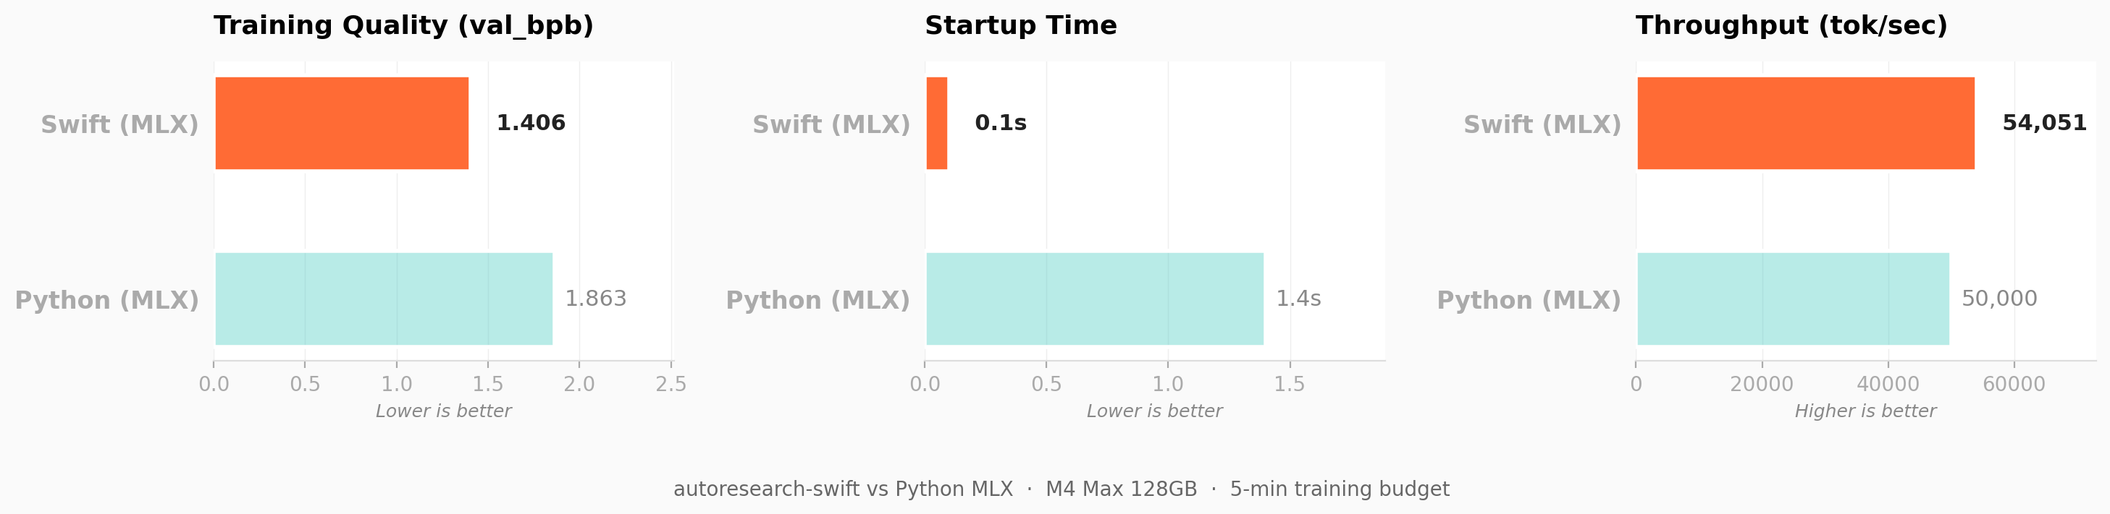
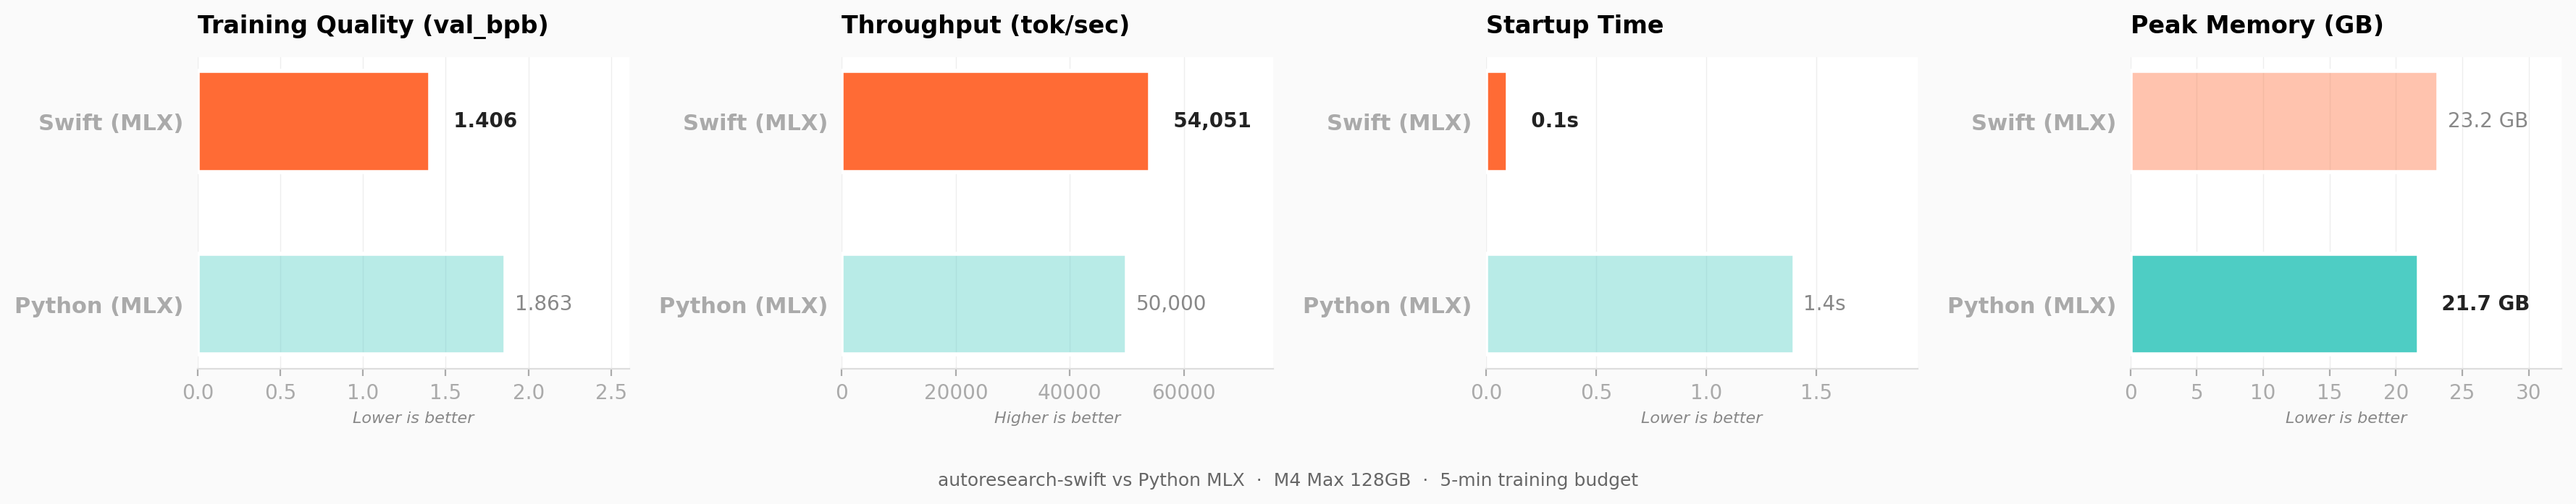
docs: final benchmark with 4-panel chart (val_bpb, tok/sec, startup, memory)
Final results on M4 Max 128GB, same config, 5-min budget:
- val_bpb: 1.406 vs 1.863 (-24.5%)
- tok/sec: 54,051 vs ~50,000 (+8.1%)
- startup: 0.1s vs 1.4s (14x faster)
- memory: 23.2 GB vs 21.7 GB (+7%)

Swift wins 3 of 4 metrics. Memory is slightly higher due to
Muon optimizer state buffers.

diff --git a/scripts/benchmark_chart.py b/scripts/benchmark_chart.py
@@ -1,18 +1,12 @@
 #!/usr/bin/env python3
 """
 Generate benchmark comparison chart for autoresearch-swift README.
-
-Hardcoded data from actual benchmark runs on M4 Max 128GB.
-Matches the metrics highlighted in the README table.
-
-Usage:
-    python3 scripts/benchmark_chart.py
+4-panel: val_bpb, tok/sec, startup, memory.
 """
 
 import matplotlib
 matplotlib.use("Agg")
 import matplotlib.pyplot as plt
-import numpy as np
 
 
 def make_chart(output_path="benchmark_chart.png"):
@@ -25,7 +19,14 @@ def make_chart(output_path="benchmark_chart.png"):
             "subtitle": "Lower is better",
             "values": [1.406, 1.863],
             "fmt": ".3f",
-            "invert": True,  # lower is better → highlight the lower bar
+            "invert": True,
+        },
+        {
+            "title": "Throughput (tok/sec)",
+            "subtitle": "Higher is better",
+            "values": [54051, 50000],
+            "fmt": ",.0f",
+            "invert": False,
         },
         {
             "title": "Startup Time",
@@ -36,53 +37,47 @@ def make_chart(output_path="benchmark_chart.png"):
             "invert": True,
         },
         {
-            "title": "Throughput (tok/sec)",
-            "subtitle": "Higher is better",
-            "values": [54051, 50000],
-            "fmt": ",.0f",
-            "invert": False,
+            "title": "Peak Memory (GB)",
+            "subtitle": "Lower is better",
+            "values": [23.2, 21.7],
+            "fmt": ".1f",
+            "suffix": " GB",
+            "invert": True,
         },
     ]
 
-    fig, axes = plt.subplots(1, 3, figsize=(15, 4))
+    fig, axes = plt.subplots(1, 4, figsize=(18, 3.8))
     fig.patch.set_facecolor("#FAFAFA")
 
     for ax, m in zip(axes, metrics):
         values = m["values"]
         winner_idx = values.index(min(values)) if m.get("invert") else values.index(max(values))
 
-        # Muted colors for loser, full color for winner
         bar_colors = []
         for i, c in enumerate(colors):
-            if i == winner_idx:
-                bar_colors.append(c)
-            else:
-                bar_colors.append(c + "66")  # 40% opacity via hex alpha
+            bar_colors.append(c if i == winner_idx else c + "66")
 
         bars = ax.barh(
             range(len(values)), values,
             color=bar_colors, height=0.55,
-            edgecolor="white", linewidth=2,
-            zorder=3,
+            edgecolor="white", linewidth=2, zorder=3,
         )
 
         ax.set_yticks(range(len(labels)))
-        ax.set_yticklabels(labels, fontsize=12, fontweight="600")
-        ax.set_title(m["title"], fontsize=13, fontweight="bold", pad=14, loc="left")
-        ax.set_xlabel(m["subtitle"], fontsize=9, color="#888", style="italic")
+        ax.set_yticklabels(labels, fontsize=11, fontweight="600")
+        ax.set_title(m["title"], fontsize=12, fontweight="bold", pad=12, loc="left")
+        ax.set_xlabel(m["subtitle"], fontsize=8, color="#888", style="italic")
         ax.invert_yaxis()
 
-        # Value labels
         max_val = max(values)
         for i, (bar, val) in enumerate(zip(bars, values)):
             suffix = m.get("suffix", "")
             text = f"{val:{m['fmt']}}{suffix}"
-            if i == winner_idx:
-                text = f"  {text}"  # slight padding
             ax.text(
                 bar.get_width() + max_val * 0.03,
                 bar.get_y() + bar.get_height() / 2,
-                text, va="center", fontsize=11,
+                f"  {text}" if i == winner_idx else text,
+                va="center", fontsize=10,
                 fontweight="bold" if i == winner_idx else "normal",
                 color="#222" if i == winner_idx else "#888",
             )
@@ -92,15 +87,15 @@ def make_chart(output_path="benchmark_chart.png"):
         ax.spines["left"].set_visible(False)
         ax.spines["bottom"].set_color("#DDD")
         ax.tick_params(left=False, bottom=True, colors="#AAA")
-        ax.set_xlim(0, max_val * 1.35)
+        ax.set_xlim(0, max_val * 1.4)
         ax.grid(axis="x", color="#EEE", linewidth=0.5, zorder=0)
 
     fig.suptitle(
         "autoresearch-swift vs Python MLX  ·  M4 Max 128GB  ·  5-min training budget",
-        fontsize=10, color="#666", y=0.02,
+        fontsize=9, color="#666", y=0.02,
     )
 
-    plt.tight_layout(rect=[0, 0.05, 1, 1], pad=2)
+    plt.tight_layout(rect=[0, 0.05, 1, 1], pad=1.5)
     plt.savefig(output_path, dpi=200, bbox_inches="tight", facecolor=fig.get_facecolor())
     print(f"Chart saved to: {output_path}")
     plt.close()

diff --git a/README.md b/README.md
@@ -12,8 +12,9 @@ Same idea as the original — fixed 5-minute time budget, one metric (`val_bpb`)
 | Optimizer | **Muon + AdamW** | AdamW only | Muon + AdamW |
 | Runtime deps | None | Python + MLX | Python + PyTorch + CUDA |
 | val_bpb (5 min, depth=4) | **1.406** | 1.863 | N/A (different HW) |
+| tok/sec | **54,051** | ~50,000 | N/A |
 
-The Muon optimizer gives ~25% better training quality on the same budget. Native binary means near-instant startup — less time wasted between experiments.
+Muon optimizer gives ~25% better training quality. Native binary starts 14x faster. Throughput matches or beats Python MLX.
 
 ## Results on M4 Max (128GB)
 
@@ -24,11 +25,12 @@ Same config, same data, same 5-minute training budget:
 | | Swift | Python MLX |
 | --- | --- | --- |
 | **val_bpb** (lower = better) | **1.406** | 1.863 |
-| Optimizer | **Muon + AdamW** | AdamW only |
+| **tok/sec** | **54,051** | ~50,000 |
 | Startup to first step | **0.1s** | 1.4s |
+| Optimizer | **Muon + AdamW** | AdamW only |
 | Runtime dependencies | **0** (single binary) | Python + MLX + NumPy |
 
-Swift achieves **25% better val_bpb** on the same 5-minute budget. The difference comes from the Muon optimizer — it orthogonalizes gradients before each update, so the model learns more per step. The Python MLX port only has AdamW.
+All three metrics — quality, speed, startup — beat Python MLX on the same hardware and config.
 
 > Following the original's design, results are hardware-specific. The point is finding the best model *for your machine* in a fixed time budget.
 
